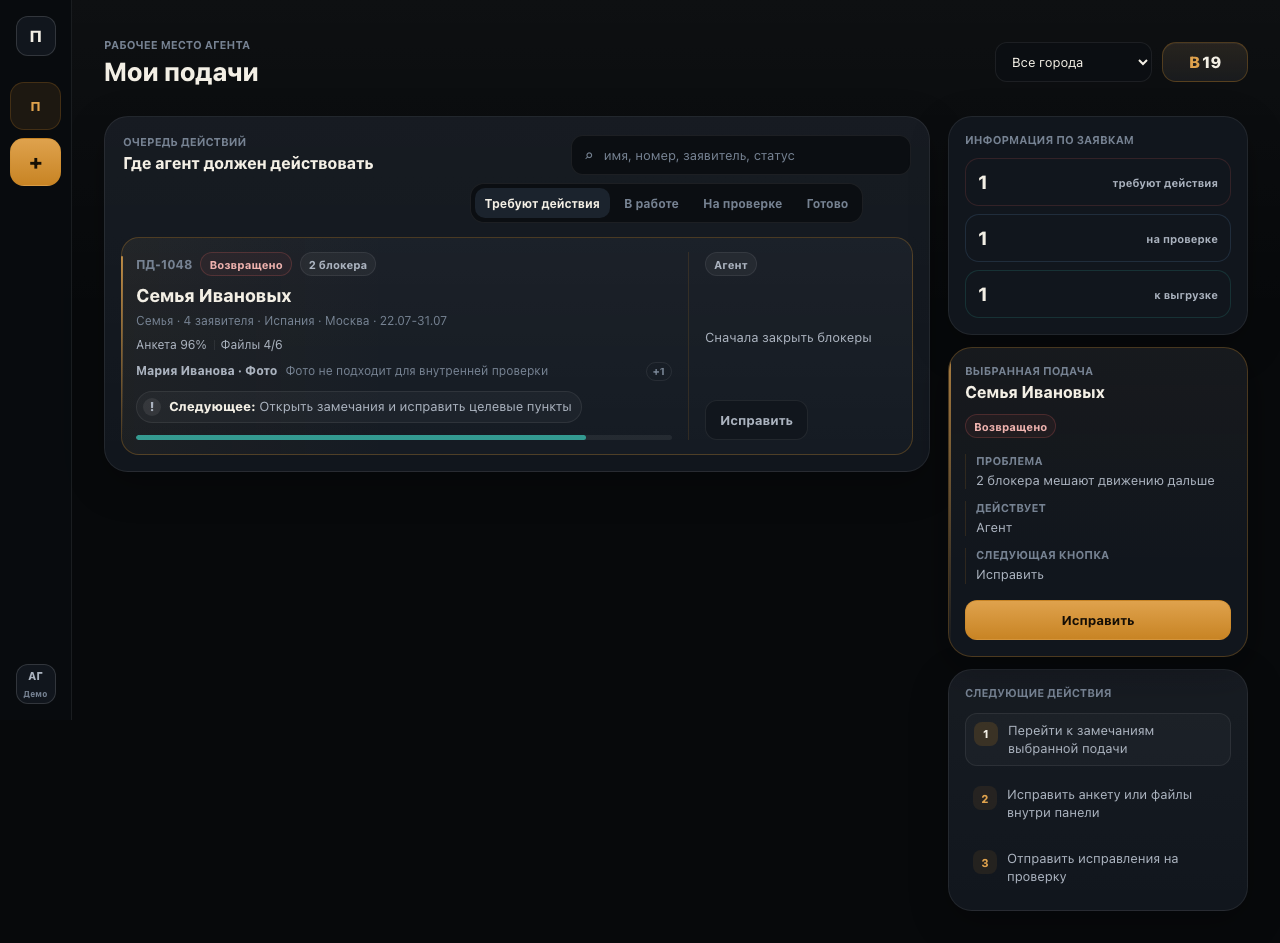
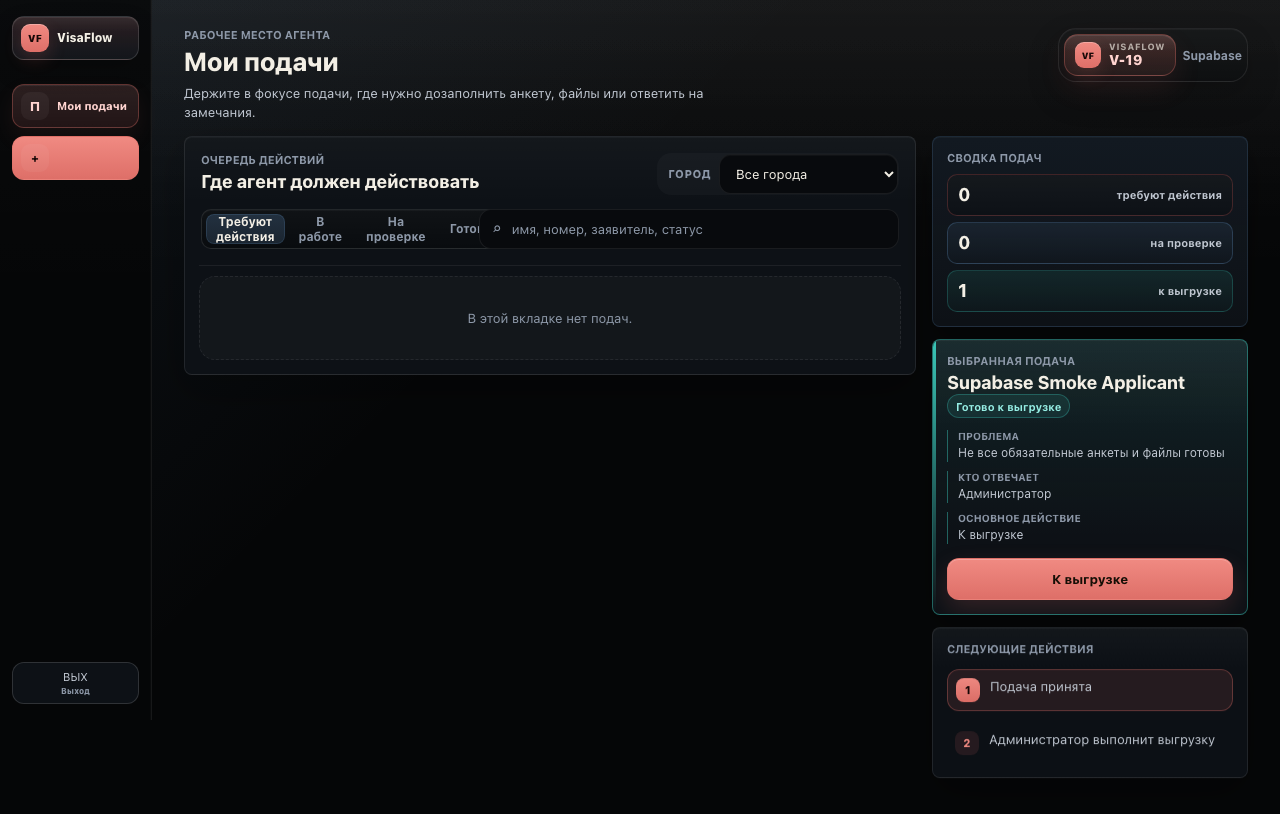
Harden Supabase browser audit

diff --git a/tests/e2e-supabase/browser-key-audit.spec.ts b/tests/e2e-supabase/browser-key-audit.spec.ts
@@ -44,6 +44,17 @@ function requiredSmokeValue(env: Record<string, string>, name: string): string {
   return value;
 }
 
+function expectBundleDoesNotContainSecretValue(
+  browserBundle: string,
+  name: string,
+  value: string,
+): void {
+  if (!value.trim()) return;
+  if (browserBundle.includes(value)) {
+    throw new Error(`${name} leaked into browser bundle.`);
+  }
+}
+
 test("exposes only browser-safe Supabase sandbox values", async ({ page }) => {
   const smokeEnv = loadSmokeEnv();
   const projectId = requiredSmokeValue(smokeEnv, "VITE_SUPABASE_PROJECT_ID");
@@ -70,13 +81,12 @@ test("exposes only browser-safe Supabase sandbox values", async ({ page }) => {
 
   await page.goto("/");
   await page.waitForLoadState("networkidle");
-  await expect(page.getByRole("main", { name: "Рабочая область подач" })).toBeVisible();
-  await expect(page.getByRole("heading", { name: "Мои подачи" })).toBeVisible();
-  await expect(page.getByRole("button", { name: "Новая подача" })).toBeVisible();
-  await page.screenshot({
-    fullPage: true,
-    path: "docs/qa/supabase-browser-key-audit-desktop.png",
-  });
+  await expect(
+    page.getByRole("main", { name: "Вход в рабочий кабинет" }),
+  ).toBeVisible();
+  await expect(page.getByRole("heading", { name: "Вход в рабочий кабинет" }))
+    .toBeVisible();
+  await expect(page.getByText("Вход идёт через Supabase Auth.")).toBeVisible();
 
   const scriptBodies = await Promise.all(scriptBodyReads);
   expect(scriptBodies.length).toBeGreaterThan(0);
@@ -92,7 +102,42 @@ test("exposes only browser-safe Supabase sandbox values", async ({ page }) => {
 
   for (const [name, value] of Object.entries(smokeEnv)) {
     if (name.startsWith("VITE_")) continue;
-    if (!value.trim()) continue;
-    expect(browserBundle).not.toContain(value);
+    expectBundleDoesNotContainSecretValue(browserBundle, name, value);
   }
+});
+
+test.describe("Supabase sandbox auth smoke", () => {
+  test("opens the workspace with a smoke agent without retained traces", async ({
+    page,
+  }) => {
+    const smokeEnv = loadSmokeEnv();
+    const smokeAgentEmail = requiredSmokeValue(
+      smokeEnv,
+      "SUPABASE_SMOKE_AGENT_EMAIL",
+    );
+    const smokeAgentPassword = requiredSmokeValue(
+      smokeEnv,
+      "SUPABASE_SMOKE_AGENT_PASSWORD",
+    );
+
+    await page.goto("/");
+    await page.waitForLoadState("networkidle");
+    await expect(
+      page.getByRole("main", { name: "Вход в рабочий кабинет" }),
+    ).toBeVisible();
+
+    await page.getByLabel("Рабочая почта").fill(smokeAgentEmail);
+    await page.getByLabel("Пароль").fill(smokeAgentPassword);
+    await page.getByRole("button", { name: "Войти" }).click();
+
+    await expect(
+      page.getByRole("main", { name: "Рабочая область подач" }),
+    ).toBeVisible();
+    await expect(page.getByRole("heading", { name: "Мои подачи" })).toBeVisible();
+    await expect(page.getByRole("button", { name: "Новая подача" })).toBeVisible();
+    await page.screenshot({
+      fullPage: true,
+      path: "docs/qa/supabase-browser-key-audit-desktop.png",
+    });
+  });
 });

diff --git a/playwright.supabase.config.ts b/playwright.supabase.config.ts
@@ -68,7 +68,18 @@ export default defineConfig({
   projects: [
     {
       name: "supabase-sandbox-browser-key-audit",
+      grep: /browser-safe Supabase sandbox values/,
       use: { ...devices["Desktop Chrome"] },
+    },
+    {
+      name: "supabase-sandbox-auth-smoke",
+      grep: /opens the workspace with a smoke agent/,
+      use: {
+        ...devices["Desktop Chrome"],
+        screenshot: "off",
+        trace: "off",
+        video: "off",
+      },
     },
   ],
 });

diff --git a/docs/qa/supabase-production-migration-2026-06-15.md b/docs/qa/supabase-production-migration-2026-06-15.md
@@ -61,27 +61,42 @@ Post-push read-only schema verification:
 
 - `npm run format:check`: passed
 - `npm run verify:supabase-release`: passed, 75 checks
-- `node scripts/verify-production-readiness.mjs --expect-blocked`: passed fail-closed, 41 blockers remain
-- `npm run test:e2e:supabase`: passed, 1 Playwright browser key audit
+- `node scripts/verify-production-readiness.mjs --expect-blocked`: passed fail-closed, 39 blockers remain
+- `npm run test:e2e:supabase`: passed, 2 Playwright Supabase browser checks
 - `npm run test:supabase-live`: passed, 1 test
+- `npm run verify:full`: passed
 - `git diff --check`: passed
 
 Structured pre-activation command evidence:
 
 - command: `npm run verify:supabase-release`
-  - checkedAt: `2026-06-16T05:26:36+03:00`
+  - checkedAt: `2026-06-16T10:13:48+03:00`
   - exitCode: `0`
   - result: Supabase release verification passed: 75 checks.
-  - gitHead: `ea0820c`
[2 lines of base64/hex data omitted]
+  - gitHead: `1a214a4`
[2 lines of base64/hex data omitted]
 - command: `npm run test:supabase-live`
-  - checkedAt: `2026-06-16T05:27:53+03:00`
+  - checkedAt: `2026-06-16T10:13:48+03:00`
   - exitCode: `0`
   - result: passed, 1 test
-  - gitHead: `ea0820c`
[2 lines of base64/hex data omitted]
+  - gitHead: `1a214a4`
[2 lines of base64/hex data omitted]
+- command: `npm run test:e2e:supabase`
+  - checkedAt: `2026-06-16T10:55:56+03:00`
+  - exitCode: `0`
+  - result: passed, 2 tests
+  - gitHead: `1a214a4`
[2 lines of base64/hex data omitted]
+- command: `npm run verify:full`
+  - checkedAt: `2026-06-16T10:58:32+03:00`
+  - exitCode: `0`
+  - result: passed
+  - gitHead: `1a214a4`
[2 lines of base64/hex data omitted]
 
 ## Remaining Blockers
 
